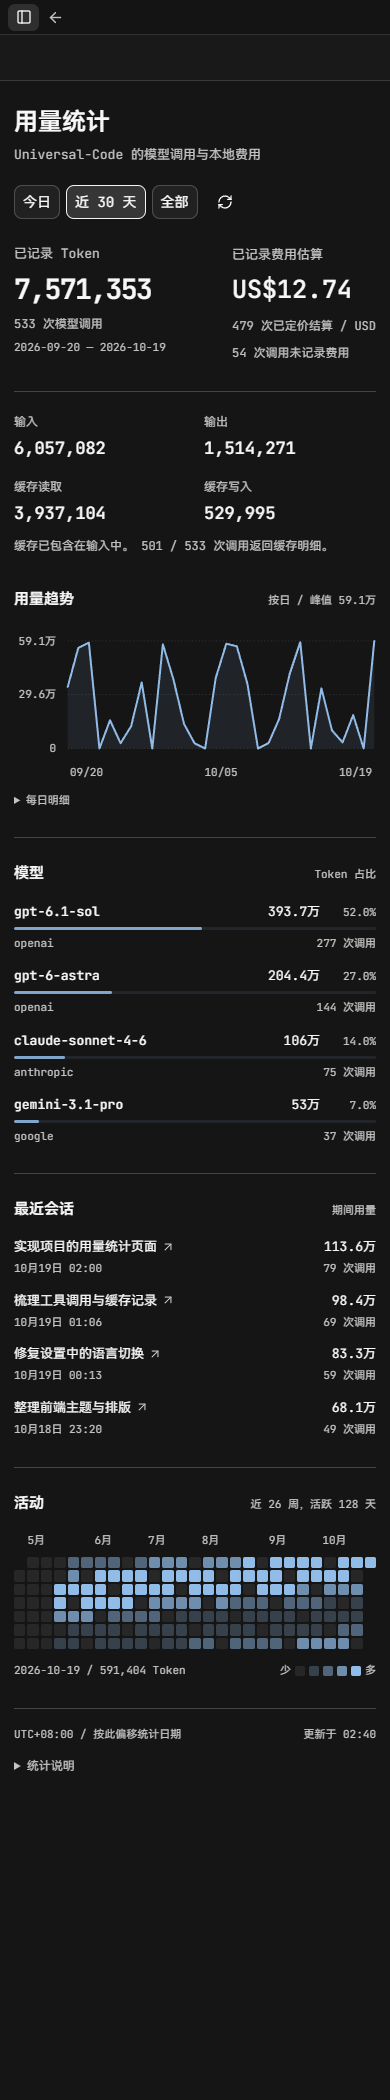
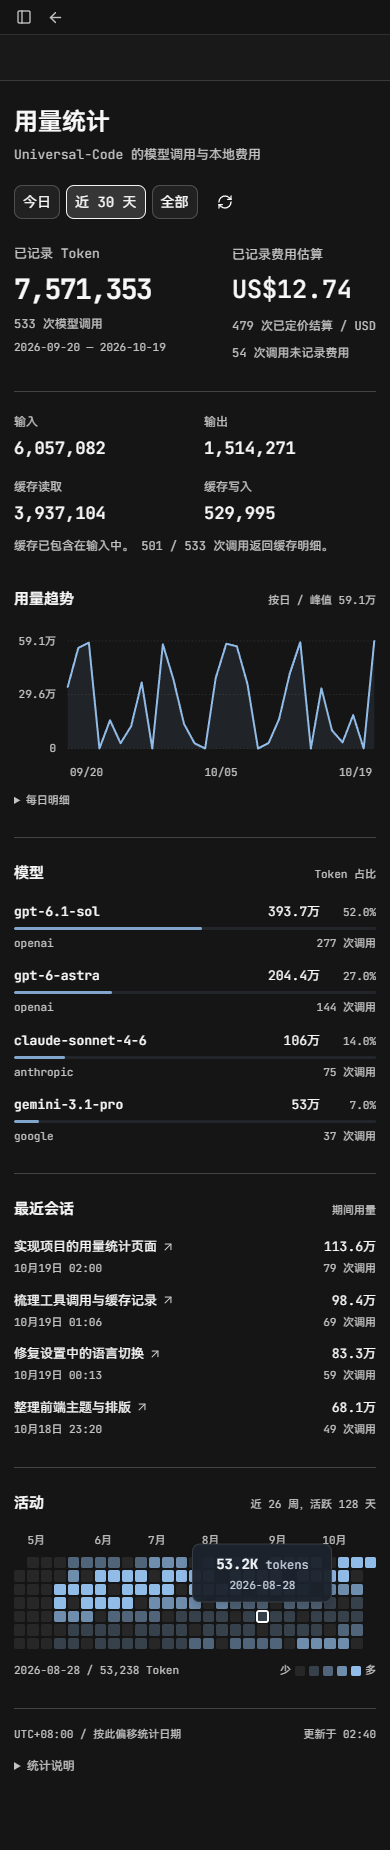
feat(usage): show activity selection and token tooltip

diff --git a/web/src/v2/components/usage-charts.tsx b/web/src/v2/components/usage-charts.tsx
@@ -66,6 +66,8 @@ export function UsageActivity({ days }: { days: UsageDay[] }) {
   const { locale, t } = useLocale();
   const titleID = useId();
   const [selectedDate, setSelectedDate] = useState("");
+  const tooltipID = useId();
+  const [tooltipDate, setTooltipDate] = useState("");
   const cells = useRef<Array<HTMLButtonElement | null>>([]);
   const selected = Math.max(0, selectedDate ? days.findIndex((day) => day.date === selectedDate) : days.length - 1);
   const current = days[selected];
@@ -73,6 +75,10 @@ export function UsageActivity({ days }: { days: UsageDay[] }) {
   const peak = Math.max(1, ...days.map((day) => day.total_tokens));
   const leading = days.length ? (new Date(`${days[0].date}T00:00:00Z`).getUTCDay() + 6) % 7 : 0;
   const columns = Math.ceil((leading + days.length) / 7);
+  const tooltipIndex = days.findIndex((day) => day.date === tooltipDate);
+  const tooltipDay = days[tooltipIndex];
+  const tooltipCell = leading + tooltipIndex;
+  const showDate = (date: string) => { setSelectedDate(date); setTooltipDate(date); };
   const months: Array<{ column: number; label: string }> = [];
   days.forEach((day, index) => {
     const column = Math.floor((leading + index) / 7);
@@ -92,10 +98,15 @@ export function UsageActivity({ days }: { days: UsageDay[] }) {
         const level = day.total_tokens > 0 ? Math.max(1, Math.ceil(day.total_tokens / peak * 4)) : day.calls > 0 ? 1 : 0;
         const label = t(`${day.date}：${day.total_tokens.toLocaleString(locale)} Token，${day.calls} 次调用`,
           `${day.date}: ${day.total_tokens.toLocaleString(locale)} tokens, ${day.calls} calls`);
-        return <button type="button" key={day.date} data-level={level} aria-label={label} title={label}
+        return <button type="button" key={day.date} data-level={level} aria-label={label}
+          data-active={day.date === tooltipDate || undefined} aria-describedby={day.date === tooltipDate ? tooltipID : undefined}
           tabIndex={index === selected ? 0 : -1} ref={(node) => { cells.current[index] = node; }}
-          onFocus={() => setSelectedDate(day.date)} onMouseEnter={() => setSelectedDate(day.date)} onClick={() => setSelectedDate(day.date)}
+          onFocus={() => showDate(day.date)} onMouseEnter={() => showDate(day.date)} onClick={() => showDate(day.date)}
+          onBlur={() => setTooltipDate("")} onMouseLeave={(event) => {
+            if (document.activeElement !== event.currentTarget) setTooltipDate("");
+          }}
           onKeyDown={(event) => {
+            if (event.key === "Escape") { event.preventDefault(); setTooltipDate(""); return; }
             const offsets: Record<string, number> = { ArrowLeft: -7, ArrowRight: 7, ArrowUp: -1, ArrowDown: 1, Home: -index, End: days.length - 1 - index };
             if (!(event.key in offsets)) return;
             event.preventDefault();
@@ -103,6 +114,11 @@ export function UsageActivity({ days }: { days: UsageDay[] }) {
             cells.current[next]?.focus();
           }} />;
       })}
+      {tooltipDay && <div id={tooltipID} role="tooltip" className="v2-usage-tooltip" style={{
+        left: `clamp(70px, calc((100% + var(--usage-heatmap-gap)) * ${(Math.floor(tooltipCell / 7) + .5) / columns} - var(--usage-heatmap-gap) / 2), calc(100% - 70px))`,
+        top: `calc((100% + var(--usage-heatmap-gap)) * ${(tooltipCell % 7) / 7})`,
+      }}><div><strong>{new Intl.NumberFormat("en-US", { notation: "compact", maximumFractionDigits: 1 }).format(tooltipDay.total_tokens)}</strong> tokens</div>
+        <time dateTime={tooltipDay.date}>{tooltipDay.date}</time></div>}
     </div>
     <footer className="v2-usage-activity-caption"><span>{current ? `${current.date} / ${current.total_tokens.toLocaleString(locale)} Token` : ""}</span>
       <span className="v2-usage-legend" aria-label={t("色深表示 Token 用量", "Darker cells indicate more tokens")}>{t("少", "Less")}

diff --git a/web/src/v2/components/usage-settings.css b/web/src/v2/components/usage-settings.css
@@ -67,8 +67,12 @@
 .v2-usage-activity { border-top: 1px solid var(--v2-border); padding-top: 24px; }
 .v2-usage-heatmap-months { position: relative; color: var(--v2-muted); height: 24px; font-size: 11px; }
 .v2-usage-heatmap-months > span { position: absolute; }
-.v2-usage-heatmap { display: grid; grid-template-rows: repeat(7, auto); grid-auto-flow: column; gap: 4px; }
+.v2-usage-heatmap { --usage-heatmap-gap: 4px; position: relative; display: grid; grid-template-rows: repeat(7, auto); grid-auto-flow: column; gap: var(--usage-heatmap-gap); }
 .v2-usage-heatmap button { display: block; width: 100%; aspect-ratio: 1; border-radius: 3px; border: 0; padding: 0; cursor: pointer; }
+.v2-usage .v2-usage-heatmap button[data-active="true"] { outline: 2px solid #fff; outline-offset: -1px; box-shadow: 0 0 0 1px rgb(0 0 0 / 30%); }
+.v2-usage-tooltip { position: absolute; z-index: 2; width: 140px; box-sizing: border-box; padding: 9px 12px; transform: translate(-50%, calc(-100% - 8px)); pointer-events: none; border: 1px solid rgb(255 255 255 / 12%); border-radius: 8px; background: rgb(27 34 44 / 96%); color: #c6d1df; box-shadow: 0 4px 12px rgb(0 0 0 / 20%); text-align: center; font-size: 12px; line-height: 1.5; }
+.v2-usage-tooltip strong { color: #f4f7fa; font-size: 14px; font-weight: 600; }
+.v2-usage-tooltip time { display: block; font-size: 11px; margin-top: 2px; }
 .v2-usage [data-level="0"] { background: color-mix(in srgb, var(--v2-muted) 10%, transparent); }
 .v2-usage [data-level="1"] { background: color-mix(in srgb, var(--usage-chart) 26%, transparent); }
 .v2-usage [data-level="2"] { background: color-mix(in srgb, var(--usage-chart) 48%, transparent); }
@@ -93,7 +97,7 @@
   .v2-usage-breakdown { grid-template-columns: repeat(2, minmax(0, 1fr)); gap: 18px; }
   .v2-usage-breakdown dd { font-size: 17px; }
   .v2-usage-plot { height: 140px; }
-  .v2-usage-heatmap { gap: 2px; }
+  .v2-usage-heatmap { --usage-heatmap-gap: 2px; }
   .v2-usage-heatmap button { border-radius: 2px; }
 }
 @media (forced-colors: active) {

diff --git a/web/src/v2/components/usage-settings.test.tsx b/web/src/v2/components/usage-settings.test.tsx
@@ -127,3 +127,35 @@ it("groups long histories by month without losing sparse daily usage", async () 
   expect(screen.getByRole("row", { name: "2026-04 30" })).toBeVisible();
   expect(screen.getByRole("row", { name: "2026-10 5" })).toBeVisible();
 });
+
+it("highlights a heatmap date and shows its tokens on hover, click, and keyboard focus", async () => {
+  const user = userEvent.setup();
+  render(<LocaleProvider><UsageActivity days={[
+    { date: "2026-08-28", calls: 3, total_tokens: 1_400_000_000 },
+    { date: "2026-08-29", calls: 1, total_tokens: 80 },
+  ]} /><button type="button">Outside heatmap</button></LocaleProvider>);
+  const cells = within(screen.getByRole("group", { name: /Daily activity/ })).getAllByRole("button");
+  expect(screen.queryByRole("tooltip")).not.toBeInTheDocument();
+  await user.hover(cells[0]);
+  expect(cells[0]).toHaveAttribute("data-active", "true");
+  expect(cells[0]).toHaveAttribute("aria-describedby", screen.getByRole("tooltip").id);
+  expect(screen.getByRole("tooltip")).toHaveTextContent("1.4B tokens");
+  expect(within(screen.getByRole("tooltip")).getByText("2026-08-28")).toHaveAttribute("dateTime", "2026-08-28");
+  await user.unhover(cells[0]);
+  expect(screen.queryByRole("tooltip")).not.toBeInTheDocument();
+  expect(cells[0]).not.toHaveAttribute("data-active");
+  await user.click(cells[0]);
+  await user.unhover(cells[0]);
+  expect(screen.getByRole("tooltip")).toHaveTextContent("1.4B tokens");
+  await user.keyboard("{ArrowDown}");
+  expect(cells[1]).toHaveFocus();
+  expect(cells[1]).toHaveAttribute("data-active", "true");
+  expect(screen.getByRole("tooltip")).toHaveTextContent("80 tokens2026-08-29");
+  await user.keyboard("{Escape}");
+  expect(screen.queryByRole("tooltip")).not.toBeInTheDocument();
+  expect(cells[1]).toHaveFocus();
+  await user.click(cells[0]);
+  await user.tab();
+  expect(screen.getByRole("button", { name: "Outside heatmap" })).toHaveFocus();
+  expect(screen.queryByRole("tooltip")).not.toBeInTheDocument();
+});

diff --git a/docs/usage.md b/docs/usage.md
@@ -44,8 +44,9 @@ false until that matrix is signed.
 
 在「设置 → 用量统计」查看 Universal-Code 自身的模型调用。今日、近 30 天和全部
 历史可切换 Token 总量、输入/输出/缓存明细、趋势、模型占比和最近八个会话；点击
-会话标题可回到对话。活动热图固定展示最近 26 周，支持方向键查看日期。页面沿用
-当前主题和 Mono 字体，中文与 English 即时切换。
+会话标题可回到对话。活动热图固定展示最近 26 周；悬停、点击或方向键选中格子时，
+白色边框标出当前日期，浮层显示日期和 Token 数，按 Esc 可关闭。页面沿用当前主题
+和 Mono 字体，中文与 English 即时切换。
 
 [深色页面](evidence/usage-statistics/usage-dark.png)和
 [窄屏页面](evidence/usage-statistics/usage-mobile.png)来自实际浏览器；截图中的用量为
